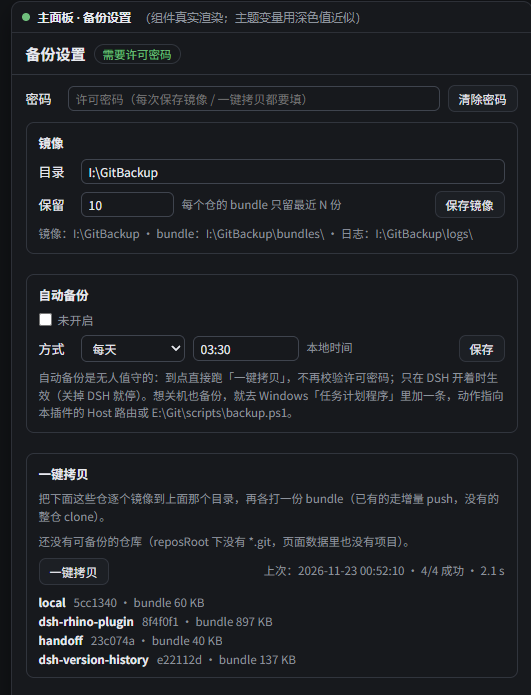
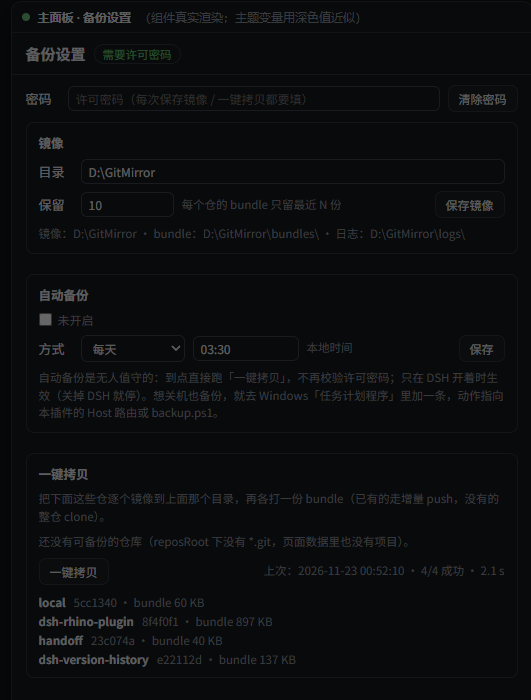
0.1.14: redact machine details from docs screenshots and example paths

diff --git a/lib/client.js b/lib/client.js
@@ -216,7 +216,7 @@ window.__ModuleLoader__.load({
       '打开局域网面板：启动 / 停止共享、复制 clone 地址、放行防火墙': 'Open the LAN panel: start / stop sharing, copy clone URLs, open the firewall',
       '打开 GitHub 面板：绑定仓库、测连接、手动推送': 'Open the GitHub panel: bind a repo, test the connection, push manually',
       '在右侧栏打开磁盘面板（容量 / 机械·固态属性 / 稳定性风险）': 'Open the disk panel (capacity / HDD·SSD attributes / stability risk)',
-      '把 E:\\Git\\repos 里的裸仓库共享到局域网（clone / push）': 'Share bare repos under E:\\Git\\repos on the LAN (clone / push)',
+      '把 repos 目录里的裸仓库共享到局域网（clone / push）': 'Share bare repos under the repos directory on the LAN (clone / push)',
       'GitHub：绑定远程仓库、测连通性、手动推送': 'GitHub: bind a remote repo, test connectivity, push manually',
       '备份设置：设置镜像目录、一键拷贝（可加许可密码）': 'Backup settings: mirror directory, one-click copy (optional license password)',
       '镜像目录与一键拷贝（可加许可密码）': 'Mirror directory and one-click copy (optional license password)',
@@ -694,7 +694,7 @@ window.__ModuleLoader__.load({
         fetch(API + '/smart.log?lines=40', { cache: 'no-store' })
           .then(function (r) { return r.json() })
           .then(function (d) {
-            setSmartLog(d && d.exists ? (d.tail || '(日志为空)') : '还没有日志：' + ((d && d.file) || 'E:\\Git\\reports\\smart.log'))
+            setSmartLog(d && d.exists ? (d.tail || '(日志为空)') : '还没有日志：' + ((d && d.file) || 'smart.log'))
           })
           .catch(function (e) { setSmartLog('读日志失败：' + String((e && e.message) || e)) })
       }
@@ -801,9 +801,9 @@ window.__ModuleLoader__.load({
         h('button', {
           className: 'vh-btn',
           onClick: smartScan,
-          title: '以管理员身份跑一次 SMART 快照（会弹 UAC），生成 E:\\Git\\reports\\smart.json',
+          title: '以管理员身份跑一次 SMART 快照（会弹 UAC），生成 smart.json',
         }, embedded ? 'SMART' : 'SMART 提权扫描'),
-        h('button', { className: 'vh-btn', onClick: showLog, title: '看最近一次 SMART 提权的日志（E:\\Git\\reports\\smart.log）' }, embedded ? '日志' : '看日志'),
+        h('button', { className: 'vh-btn', onClick: showLog, title: '看最近一次 SMART 提权的日志（smart.log）' }, embedded ? '日志' : '看日志'),
         h('button', { className: 'vh-btn', onClick: function () { load(true) }, disabled: busy }, busy ? '扫描中…' : '扫描'))
 
       return h('div', { className: 'vh-dtab' + (embedded ? ' embedded' : '') },
@@ -812,7 +812,7 @@ window.__ModuleLoader__.load({
         smartMsg ? h('div', { className: 'vh-hint' }, smartMsg) : null,
         smartLog ? h('pre', { className: 'vh-log' }, smartLog) : null,
         h('div', { className: 'vh-dbody' },
-          err ? h('div', { className: 'vh-err' }, '读取失败：' + err + '\n（先跑一次 E:\\Git\\scripts\\disk-health.ps1）') : null,
+          err ? h('div', { className: 'vh-err' }, '读取失败：' + err + '\n（先跑一次 disk-health.ps1）') : null,
           smart && smart.available === false
             ? h('div', { className: 'vh-hint' },
               '温度 / 磨损 / 通电时间 / 重映射扇区这些「待 SMART」项要有一次管理员快照：点上面的 SMART 按钮，UAC 点「是」后自动补上。'
@@ -926,9 +926,9 @@ window.__ModuleLoader__.load({
               }, copied === u ? '已复制' : '复制'))
           }))
           : null,
-        running && !repos.length ? h('div', { className: 'vh-hint' }, 'E:\\Git\\repos 下还没有裸仓库。') : null,
+        running && !repos.length ? h('div', { className: 'vh-hint' }, 'repos 目录下还没有裸仓库。') : null,
         !running ? h('div', { className: 'vh-hint' },
-          '点「启动」在这台机器上开一个 Git Smart HTTP 服务，局域网里的其他设备就能直接 clone / push 这里的裸仓库（E:\\Git\\repos）。'
+          '点「启动」在这台机器上开一个 Git Smart HTTP 服务，局域网里的其他设备就能直接 clone / push 这里的裸仓库（repos 目录）。'
           + '第一次用先点「开放端口」放行防火墙；服务没有账号密码，只在可信局域网里开，用完点「停止」。') : null,
         h('div', { className: 'vh-hint' },
           '其他设备：git clone ' + ((urls[0] || 'http://<本机IP>:' + port + '/git/<仓库>.git')) + '；推送同一地址即可（裸仓库没有检出，推上去就是备份）。'))
@@ -956,7 +956,7 @@ window.__ModuleLoader__.load({
           sb.registerTab({
             id: 'version-history:lan',
             title: () => '局域网',
-            description: () => '把 E:\\Git\\repos 里的裸仓库共享给局域网（clone / push）',
+            description: () => '把 repos 目录里的裸仓库共享给局域网（clone / push）',
             icon: (size) => Icon({ size: size }),
             order: 61,
             single: true,
@@ -1379,7 +1379,7 @@ window.__ModuleLoader__.load({
           h('span', { className: 'vh-k' }, '目录'),
           h('input', {
             className: 'vh-inp',
-            placeholder: '镜像根目录绝对路径，例如 I:\\GitBackup',
+            placeholder: '镜像根目录绝对路径，例如 D:\\GitMirror',
             value: mirror,
             onChange: function (e) { setMirror(e.target.value) },
           })),
@@ -1448,7 +1448,7 @@ window.__ModuleLoader__.load({
           : null,
         h('div', { className: 'vh-bk-note' },
           '自动备份是无人值守的：到点直接跑「一键拷贝」，不再校验许可密码；只在 DSH 开着时生效（关掉 DSH 就停）。'
-          + '想关机也备份，就去 Windows「任务计划程序」里加一条，动作指向本插件的 Host 路由或 E:\\Git\\scripts\\backup.ps1。'))
+          + '想关机也备份，就去 Windows「任务计划程序」里加一条，动作指向本插件的 Host 路由或 backup.ps1。'))
 
       const runCard = h('div', { className: 'vh-bk-card', key: 'run' },
         h('div', { className: 'vh-bk-t' }, '一键拷贝'),
@@ -1495,7 +1495,7 @@ window.__ModuleLoader__.load({
           bad ? h('div', { className: 'vh-msg bad' }, bad) : null,
           h('div', { className: 'vh-bk-note' },
             '提示：镜像里的 *.git 可以直接拿来 clone；bundle 是单文件备份，用 `git clone <bundle>` 恢复。'
-            + '每天 21:00 的计划任务仍然独立跑（E:\\Git\\scripts\\backup.ps1），这个按钮只是手动补一次。')))
+            + '每天 21:00 的计划任务仍然独立跑（backup.ps1），这个按钮只是手动补一次。')))
     }
 
     let backupTabDone = false
@@ -1937,7 +1937,7 @@ window.__ModuleLoader__.load({
         h('button', {
           className: 'vh-btn',
           onClick: function () { openView('lan') },
-          title: '把 E:\\Git\\repos 里的裸仓库共享到局域网（clone / push）',
+          title: '把 repos 目录里的裸仓库共享到局域网（clone / push）',
         }, '局域网'),
         h('button', {
           className: 'vh-btn',
@@ -1957,7 +1957,7 @@ window.__ModuleLoader__.load({
       return h('div', { className: 'vh' },
         h('style', null, CSS),
         head,
-        err ? h('div', { className: 'vh-err' }, '读取失败：' + err + '\n（先跑一次 E:\\Git\\scripts\\visualize.ps1）') : null,
+        err ? h('div', { className: 'vh-err' }, '读取失败：' + err + '\n（先跑一次 visualize.ps1）') : null,
         Disks(data),
         h('div', { className: 'vh-body' },
           h('aside', { className: 'vh-tree' },

diff --git a/lib/backup.js b/lib/backup.js
@@ -2,7 +2,7 @@
  * dsh-version-history · 备份设置
  *
  * 两件事：
- *   setMirror  设置镜像根目录（例如 I:\GitBackup）——写进 backup.json
+ *   setMirror  设置镜像根目录（例如 D:\GitMirror）——写进 backup.json
  *   run        一键拷贝：把 <reposRoot>/*.git 全部镜像到 <mirror>/<名字>.git，
  *              再给每个仓打一份 bundle（<mirror>/bundles/<名字>-<时间戳>.bundle，只留最近 keep 份）
  *
@@ -168,7 +168,7 @@ export function createBackup(cfg) {
     if (!g.ok) return g
     const dir = String(mirror || '').trim().replace(/[\\/]+$/, '')
     if (!/^[A-Za-z]:[\\/]/.test(dir) && !/^\\\\/.test(dir)) {
-      return { ok: false, err: '镜像要填绝对路径，例如 I:\\GitBackup' }
+      return { ok: false, err: '镜像要填绝对路径，例如 D:\\GitMirror' }
     }
     try {
       await mkdir(dir, { recursive: true })

diff --git a/lib/github.js b/lib/github.js
@@ -354,7 +354,7 @@ export function createGithub(cfg) {
      * 把一个本地仓库**发布**到 GitHub（私有或公开）：
      *   1) 用 API 查 `GET /repos/<login>/<name>`；404 就 `POST /user/repos` 建（private 由 visibility 决定）
      *   2) `git push <url> refs/heads/<br>:refs/heads/<br> --tags`（令牌走 .extraheader）
-     *   3) 本地没有 origin 时顺手补一个（有 origin 不动，避免把 E:\Git\work\local 这种已绑定的改掉）
+     *   3) 本地没有 origin 时顺手补一个（有 origin 不动，避免把 D:\repos\local 这种已绑定的改掉）
      */
     async publish({ repoPath, name, visibility, branch, token } = {}) {
       const path = String(repoPath || '').trim()

diff --git a/README.md b/README.md
@@ -64,13 +64,13 @@ plugin_manager: action=set_plugin,   target="include:dsh-version-history", enabl
 
 ### 装完要配的（可选）
 
-插件默认从 `~/.dsh-version-history` 派生所有路径，**开箱即用**；若你的脚本/报告在别处（例如 `E:\Git\scripts`、`E:\Git\reports`），按下面「配置（可移植）」那节在自己的 profile 补丁层覆盖，不要改包内文件。
+插件默认从 `~/.dsh-version-history` 派生所有路径，**开箱即用**；若你的脚本/报告在别处（例如 `D:\scripts`、`D:\reports`），按下面「配置（可移植）」那节在自己的 profile 补丁层覆盖，不要改包内文件。
 
 ## 备份（镜像 / 一键拷贝 / 许可密码）
 
 主面板顶栏「备份」→「备份设置」：
 
-1. **镜像**：填镜像根目录（绝对路径，例如 `I:\GitBackup`）→「保存镜像」。目录不存在会建；界面回显派生的 `bundles/`、`logs/`。
+1. **镜像**：填镜像根目录（绝对路径，例如 `D:\GitMirror`）→「保存镜像」。目录不存在会建；界面回显派生的 `bundles/`、`logs/`。
 2. **一键拷贝**：把下面列出的仓逐个镜像过去（已有的 `git push --mirror`，没有的 `git clone --mirror`），再各打一份
    `bundles/<名字>-<yyyymmdd-HHmmss>.bundle`；每个仓只保留最近 `保留 N 份`（默认 10）。
    要备份的仓 = `reposRoot` 下的裸仓 + `data.json` 里列出的项目仓（按名字去重）。
@@ -89,16 +89,16 @@ plugin_manager: action=set_plugin,   target="include:dsh-version-history", enabl
 
 ### 每天 21:00 的那个 Windows 计划任务（也覆盖全部仓库）
 
-`GitBackup-Local`（任务计划程序，每天 21:00）现在跑的是 **`E:\Git\scripts\backup-all.ps1`**：
-读 `E:\Git\reports\repos.json` 加上 `E:\Git\repos\*.git` 去重，逐仓 `push --mirror`（没有就 `clone --mirror`）
-+ `bundle create --all`，bundle 按名字轮转保留最近 `-Keep`（默认 10）份，日志 `I:\GitBackup\logs\backup-all.log`，
+`GitBackup-Local`（任务计划程序，每天 21:00）现在跑的是 **`D:\scripts\backup-all.ps1`**：
+读 `D:\reports\repos.json` 加上 `D:\repos\*.git` 去重，逐仓 `push --mirror`（没有就 `clone --mirror`）
++ `bundle create --all`，bundle 按名字轮转保留最近 `-Keep`（默认 10）份，日志 `D:\GitMirror\logs\backup-all.log`，
 最后跑一次 `visualize.ps1 -NoOpen` 刷新页面（面板与离线页读同一份 `data.json`）。
 
 ```powershell
 # 手动跑一次（不开页面）
-powershell -NoProfile -ExecutionPolicy Bypass -File E:\Git\scripts\backup-all.ps1
+powershell -NoProfile -ExecutionPolicy Bypass -File D:\scripts\backup-all.ps1
 # 只看会做什么
-powershell -NoProfile -ExecutionPolicy Bypass -File E:\Git\scripts\backup-all.ps1 -DryRun
+powershell -NoProfile -ExecutionPolicy Bypass -File D:\scripts\backup-all.ps1 -DryRun
 ```
 
 > 面板里的「自动备份」是**DSH 进程内**的定时器（只在 DSH 开着时生效）；21:00 这条是系统级任务，关机不跑但开机后按计划继续，两者互不冲突。
@@ -125,27 +125,27 @@ powershell -NoProfile -ExecutionPolicy Bypass -File E:\Git\scripts\backup-all.ps
 | `DSH_VH_LAN_PORT` | 局域网 Smart HTTP 端口（默认 8788） |
 | `DSH_VH_REPOS` | 预置仓库清单（分号或逗号分隔的绝对路径），只在 `repos.json` 还不存在时生效 |
 
-需要指到别处（例如本机把脚本放 `E:\Git\scripts`、报告放 `E:\Git\reports`），在**自己的 profile 补丁层**覆盖 config，不要改本包：
+需要指到别处（例如本机把脚本放 `D:\scripts`、报告放 `D:\reports`），在**自己的 profile 补丁层**覆盖 config，不要改本包：
 
 ```yaml
 - id: dsh-version-history
   name: dsh-version-history
   config:
-    dataPath: 'E:\Git\reports\data.json'
-    reportPath: 'E:\Git\reports\版本历史.html'
-    scriptPath: 'E:\Git\scripts\visualize.ps1'
-    reposPath: 'E:\Git\reports\repos.json'
-    healthPath: 'E:\Git\reports\health.json'
-    healthScript: 'E:\Git\scripts\disk-health.ps1'
-    smartPath: 'E:\Git\reports\smart.json'
-    smartScript: 'E:\Git\scripts\disk-health-admin.ps1'
-    smartLauncher: 'E:\Git\scripts\smart-launch.ps1'
-    smartStatePath: 'E:\Git\reports\smart.state.json'
-    smartLogPath: 'E:\Git\reports\smart.log'
-    githubPath: 'E:\Git\reports\github.json'
-    dpapiScript: 'E:\Git\scripts\dpapi.ps1'
-    reposRoot: 'E:\Git\repos'
-    gitExe: 'E:\Git\tools\git\cmd\git.exe'
+    dataPath: 'D:\reports\data.json'
+    reportPath: 'D:\reports\版本历史.html'
+    scriptPath: 'D:\scripts\visualize.ps1'
+    reposPath: 'D:\reports\repos.json'
+    healthPath: 'D:\reports\health.json'
+    healthScript: 'D:\scripts\disk-health.ps1'
+    smartPath: 'D:\reports\smart.json'
+    smartScript: 'D:\scripts\disk-health-admin.ps1'
+    smartLauncher: 'D:\scripts\smart-launch.ps1'
+    smartStatePath: 'D:\reports\smart.state.json'
+    smartLogPath: 'D:\reports\smart.log'
+    githubPath: 'D:\reports\github.json'
+    dpapiScript: 'D:\scripts\dpapi.ps1'
+    reposRoot: 'D:\repos'
+    gitExe: 'D:\git\tools\git\cmd\git.exe'
     lanPort: 8788
 ```
 

diff --git a/CHANGELOG.md b/CHANGELOG.md
@@ -3,6 +3,20 @@
 All notable changes to this plugin. Versions follow the git tags in this repo;
 each tag has a matching GitHub Release with an installable tarball.
 
+## 0.1.14
+
+- **文档截图与示例路径全面脱敏**（发布的图片和文字里不再带本机信息）：
+  - `render-preview.mjs` 在渲染前把数据换成中性占位：仓库路径 → `D:\repos\<name>`、镜像根目录 →
+    `D:\GitMirror`、物理盘型号/序列号 → `Demo SSD/HDD <容量>` + `SN-DEMO-xx`、局域网 IP →
+    `192.168.1.10`。预览页只用于 README 截图，所以这一步没有开关，恒生效。
+  - README 的 `panel-main.png` / `panel-backup.png` 用脱敏后的预览重截（Windows 用户名与家目录、
+    硬盘序列号、镜像路径都不再出现在图里）。
+- **代码里的提示文案不再写死盘符**：`lib/client.js` 的 tooltip / 错误提示改成
+  `backup.ps1`、`disk-health.ps1`、`smart.log`、`repos 目录` 这类说法，不再指向某个具体盘；
+  README / DETAIL / CHANGELOG 里的示例路径统一成 `D:\…`。
+- 自测：`selftest.mjs`、`selftest-panel.mjs`、`selftest-backup.mjs` 均 exit 0；
+  `render-preview.mjs` 五种模式的产物都验过不再含 `C:\Users\`、盘型号、内网 IP。
+
 ## 0.1.13
 
 - **仓库行右键菜单：手动选择「推送到私有仓库」/「推送到公开仓库」**。在左栏项目行上右键，弹出
@@ -79,10 +93,10 @@ each tag has a matching GitHub Release with an installable tarball.
   `git remote get-url origin` 判是不是 github.com，再 `git ls-remote --heads <url> refs/heads/<branch>`
   拿远端 sha 与本地 HEAD 比对（能比祖先关系就用 `merge-base --is-ancestor` 判 ahead/behind，
   并用 `rev-list --count` 数差多少提交）。结果按仓库路径缓存 3 分钟，失败静默（不显示徽章）。
-- **每日备份扩到全部仓库**：新增 `E:\Git\scripts\backup-all.ps1`（PowerShell 版 `runCopy`）——
+- **每日备份扩到全部仓库**：新增 `D:\scripts\backup-all.ps1`（PowerShell 版 `runCopy`）——
   读 `repos.json` + `reposRoot\*.git` 去重，逐仓 `push --mirror`（没有就 `clone --mirror`）+
   `bundle create --all` 到 `<mirror>/bundles/<名字>-<时间戳>.bundle` 并按 `-Keep`（默认 10）轮转，
-  日志 `I:\GitBackup\logs\backup-all.log`，最后顺带跑 `visualize.ps1 -NoOpen` 刷新页面。
+  日志 `D:\GitMirror\logs\backup-all.log`，最后顺带跑 `visualize.ps1 -NoOpen` 刷新页面。
   计划任务 `GitBackup-Local`（每天 21:00）已改成调它 —— 以前只备份 `local.git`，现在覆盖四个仓。
 - `render-preview.mjs` 支持 `VH_DATA` 指定 data 文件（想把 Host 侧装饰后的数据拿去渲染预览时用）。
 
